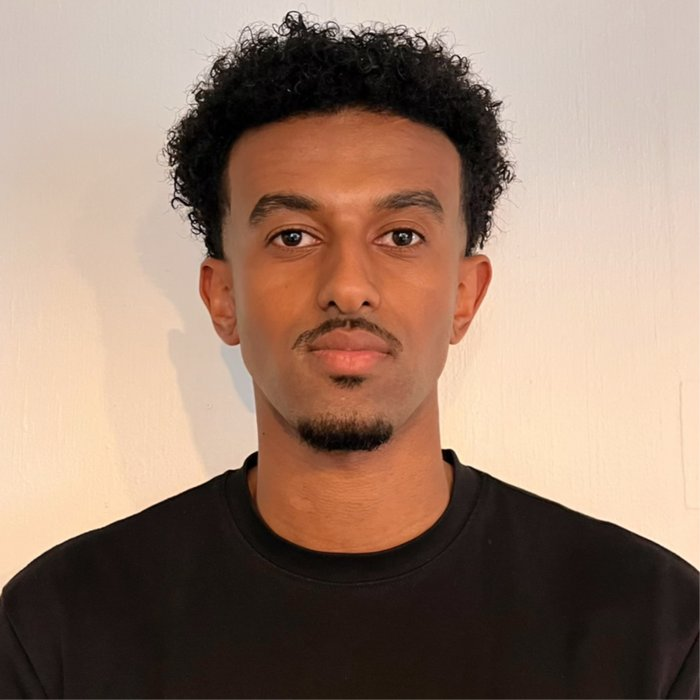
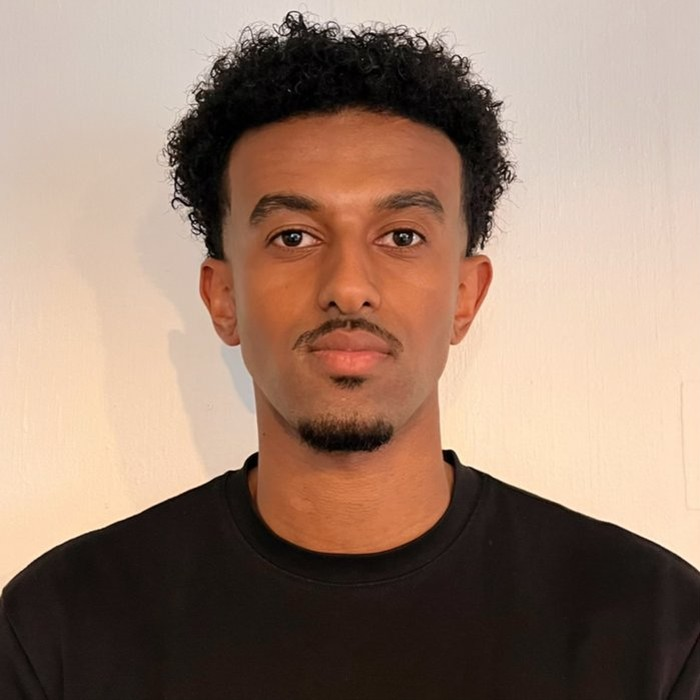
Like profilbilder, nytt bilde av Victor og nye praksisprosjekter
- Alle profilbilder beskåret til 700x700 med lik innramming
- Nye prosjekter: Smaragd Motorsport (Marius, Mohamed) og StartCompass (Victor)
- Mohamed lagt til på Kriseveier for spesialkjøretøy

diff --git a/tidligere-prosjekt.html b/tidligere-prosjekt.html
@@ -64,6 +64,30 @@
                         </div>
                         <div class="project-list" id="projectList">
                             <article class="project-entry"
+                                data-title="E-handelsplattform for Smaragd Motorsport"
+                                data-badge="Høst 2026 (pågår)"
+                                data-meta="IS-302 · Praksis"
+                                data-icon="assets/images/icon-sportscar.svg"
+                                data-short="Komplett nettbutikk som erstatter manuell håndtering av salg og ordre hos Smaragd Motorsport."
+                                data-summary="Et praksisprosjekt i samarbeid med Smaragd Motorsport, en aktør innen bilsport, tuning og eksklusive bildeler til premium sportsbiler. I dag håndteres salg, bestillinger og ordre manuelt, og gruppen utvikler derfor en produksjonsklar e-handelsplattform med produktkatalog, søk, handlekurv og checkout. Løsningen har produktdatabase med leverandørintegrasjoner, dynamisk prissetting basert på valutakurser og bedriftens prisregler, ordre- og betalingshåndtering for reelle transaksjoner og et eget adminsystem. Mohamed utvikler systemet for pris, valuta og automatisering, og Marius har ansvar for backend, ordreflyt og transaksjoner."
+                                data-tags="Supabase, Nettbutikk, Dynamisk prissetting, Leverandørintegrasjoner, Adminsystem"
+                                data-members="marius, mohamed"
+                                data-demo="https://dennistae.github.io/">
+                            </article>
+
+                            <article class="project-entry"
+                                data-title="StartCompass for IK Start"
+                                data-badge="Høst 2026 (pågår)"
+                                data-meta="IS-302 · Praksis"
+                                data-icon="assets/images/icon-football.svg"
+                                data-short="Digital trenerhub der spillere vurderer seg selv på de fem C-ene og trenerne ser avviket mot sin forventning."
+                                data-summary="Et praksisprosjekt for utviklingsavdelingen i IK Start. I dag ligger oversikten over spillerne spredt, og den ukentlige oppfølgingen gjøres manuelt. StartCompass samler spillere og lag i én trenerhub. Hver uke vurderer spillerne seg selv fra 1 til 5 på de fem C-ene (Commitment, Communication, Concentration, Control og Confidence), og for de yngste fyller foresatte ut. Systemet sammenligner spillerens egen vurdering med trenerens forventning og viser utviklingen i grafer over uker, måneder og mesosykluser. Fordi løsningen håndterer opplysninger om mindreårige, styres tilgangen etter rolle: administrator, trener, foresatt og spiller."
+                                data-tags="MVC, Rollebasert tilgang, Datavisualisering, Brukertesting, Personvern"
+                                data-members="victor"
+                                data-demo="https://techsquad-start.github.io/PraksisProsjekt/">
+                            </article>
+
+                            <article class="project-entry"
                                 data-title="Nødhavner i Norge"
                                 data-badge="Vår 2026"
                                 data-meta="IS-218"
@@ -84,7 +108,7 @@
                                 data-short="Webkart som finner trygge ruter for spesialkjøretøy, basert på vegdata fra NVDB."
                                 data-summary="Et interaktivt webkart for planlegging av trygg transport med store spesialkjøretøy. Løsningen visualiserer vegnett og restriksjonsdata fra NVDB, slik at brukeren kan finne veier som passer kjøretøyets dimensjoner."
                                 data-tags="JavaScript, MapLibre GL, NVDB API, Supabase, Vite, Python"
-                                data-members="haakon, dawit, marius"
+                                data-members="haakon, dawit, marius, mohamed"
                                 data-github="https://github.com/haakonhalvors1/Oppgave-1-Webutvikling-GIS-Kartografi"
                                 data-demo="https://drive.google.com/file/d/18L1O8_KvjrtxI3nclD9tCHddyP6_yICU/view?usp=sharing"
                                 data-video="https://drive.google.com/file/d/18L1O8_KvjrtxI3nclD9tCHddyP6_yICU/preview">
